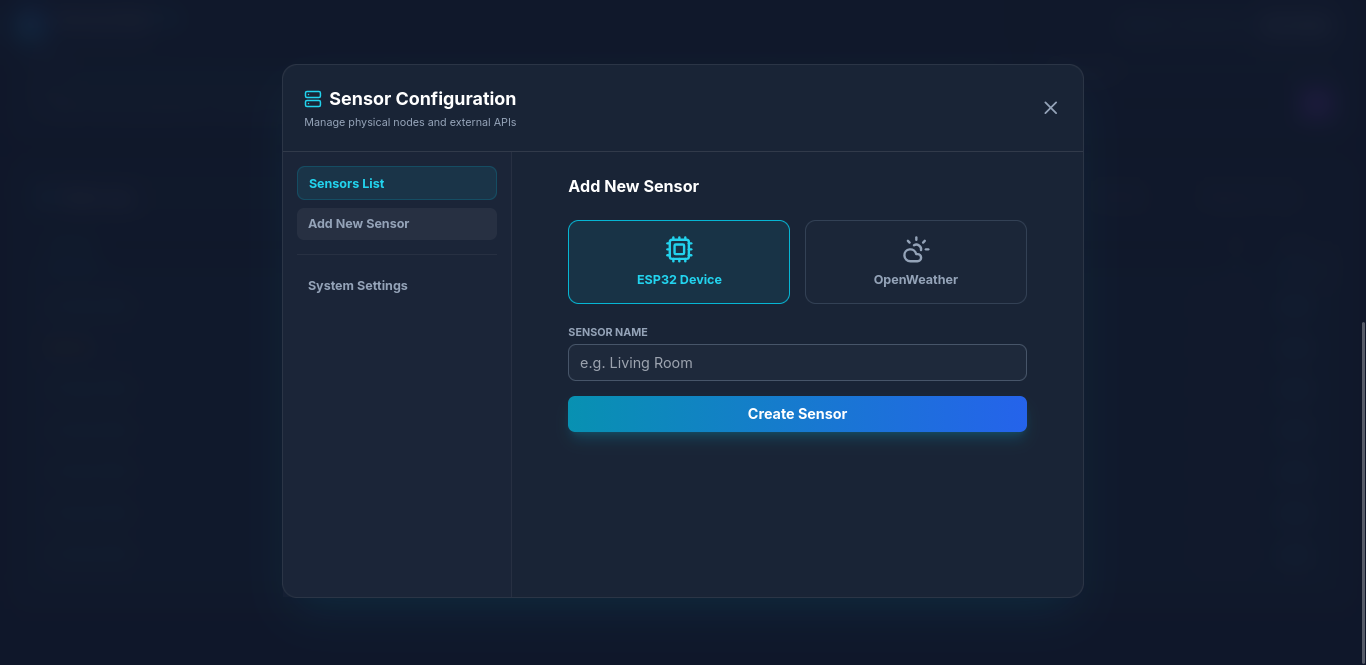
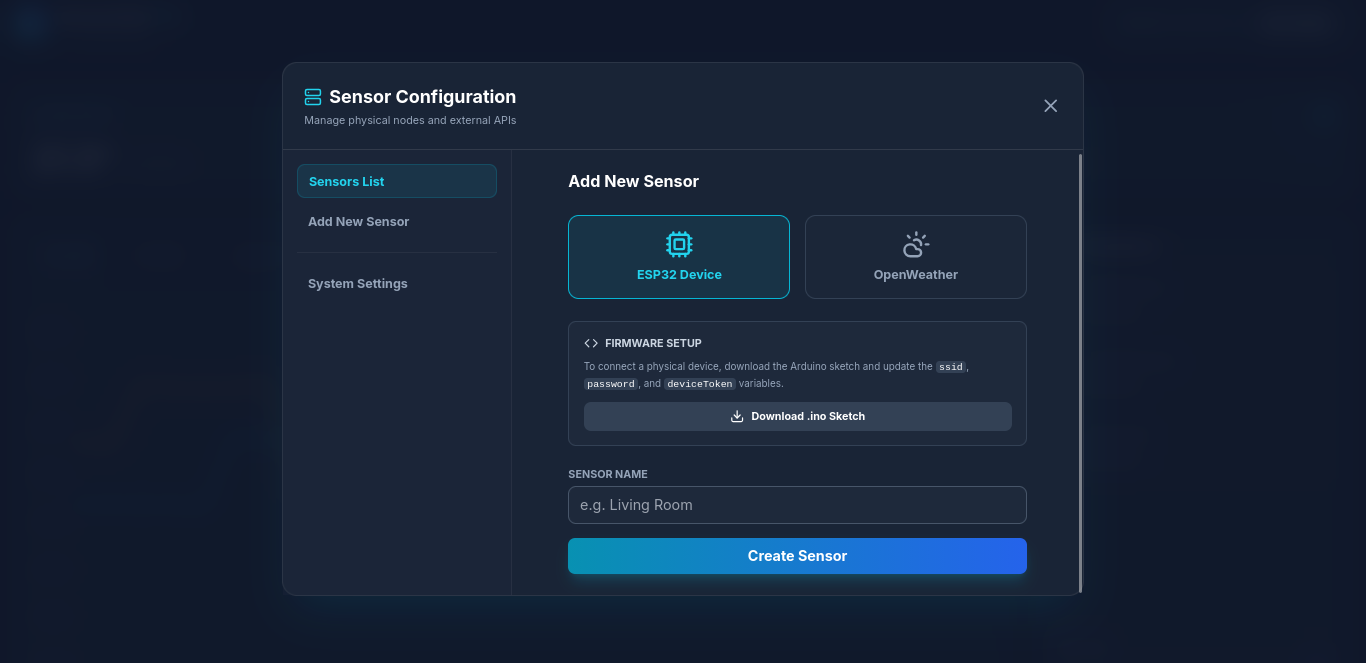
feat: Refactor ESP32 firmware to use HTTP POST instead of Firebase and add corresponding setup instructions to the UI and README.

diff --git a/templates/index.html b/templates/index.html
@@ -231,6 +231,25 @@
                             </button>
                         </div>
 
+                        <!-- FIRMWARE DOWNLOAD INFO (Only for ESP32) -->
+                        <div id="esp32-firmware-info" class="mb-6 bg-slate-800 p-4 rounded-lg border border-slate-700">
+                            <h4 class="text-xs font-bold text-slate-300 uppercase mb-2 flex items-center gap-2">
+                                <i data-lucide="code" class="w-4 h-4"></i> Firmware Setup
+                            </h4>
+                            <p class="text-[11px] text-slate-400 mb-3 leading-relaxed">
+                                To connect a physical device, download the Arduino sketch and update the
+                                <span class="bg-slate-700 px-1 rounded text-white font-mono">ssid</span>,
+                                <span class="bg-slate-700 px-1 rounded text-white font-mono">password</span>, and
+                                <span class="bg-slate-700 px-1 rounded text-white font-mono">deviceToken</span>
+                                variables.
+                            </p>
+                            <a href="/static/arduino.ino" download="sensor_firmware.ino"
+                                class="flex w-full items-center justify-center gap-2 bg-slate-700 hover:bg-slate-600 text-white text-xs font-bold py-2 rounded-lg transition-colors">
+                                <i data-lucide="download" class="w-4 h-4"></i> Download .ino Sketch
+                            </a>
+                        </div>
+
+
                         <form id="add-sensor-form" class="space-y-4">
                             <input type="hidden" id="new-sensor-type" value="esp32">
 

diff --git a/README.md b/README.md
@@ -137,10 +137,25 @@ The Dashboard features a client-side AI module that uses **Linear Regression** t
   <img src="static/images/screenshot_4.png" width="45%" alt="History View">
 </p>
 <p align="center">
-  <img src="static/images/screenshot_5.png" width="30%" alt="Mobile View 1">
-  <img src="static/images/screenshot_6.png" width="30%" alt="Mobile View 2">
-  <img src="static/images/screenshot_7.png" width="30%" alt="Dark Mode">
+  <img src="static/images/screenshot_5.png" width="30%" alt="Admin Access">
+  <img src="static/images/screenshot_6.png" width="30%" alt="List of Sensors">
 </p>
+<p align="center">
+  <img src="static/images/screenshot_7.png" width="30%" alt="Sensor Configuration">
+  <img src="static/images/screenshot_8.png" width="30%" alt="Database Settings">
+</p>
+
+## 🔌 ESP32 Firmware Setup
+To connect a physical ESP32 sensor:
+1. Go to the **Web Dashboard** -> **Config** (Admin) -> **Add Sensor**.
+2. Select **ESP32 Device**, give it a name, and copy the **Device Token**.
+3. Download the firmware using the **"Download .ino Sketch"** button in the modal.
+4. Open the file in **Arduino IDE** and update:
+   - `ssid`: Your WiFi Name.
+   - `password`: Your WiFi Password.
+   - `serverBaseUrl`: Your Server URL (e.g. `http://192.168.1.10:5000`).
+   - `deviceToken`: The token you copied.
+5. Flash the ESP32. It will start sending data every 10 seconds.
 
 ## ⚠ Known Issues
 - **AI Predictions (Beta):** The Linear Regression module currently requires a stable stream of data (minimum 2 points) to generate forecasts. In some environments with intermittent sensor availability, the predictions may display as "Calculating..." or "Low Data". This is under investigation.
